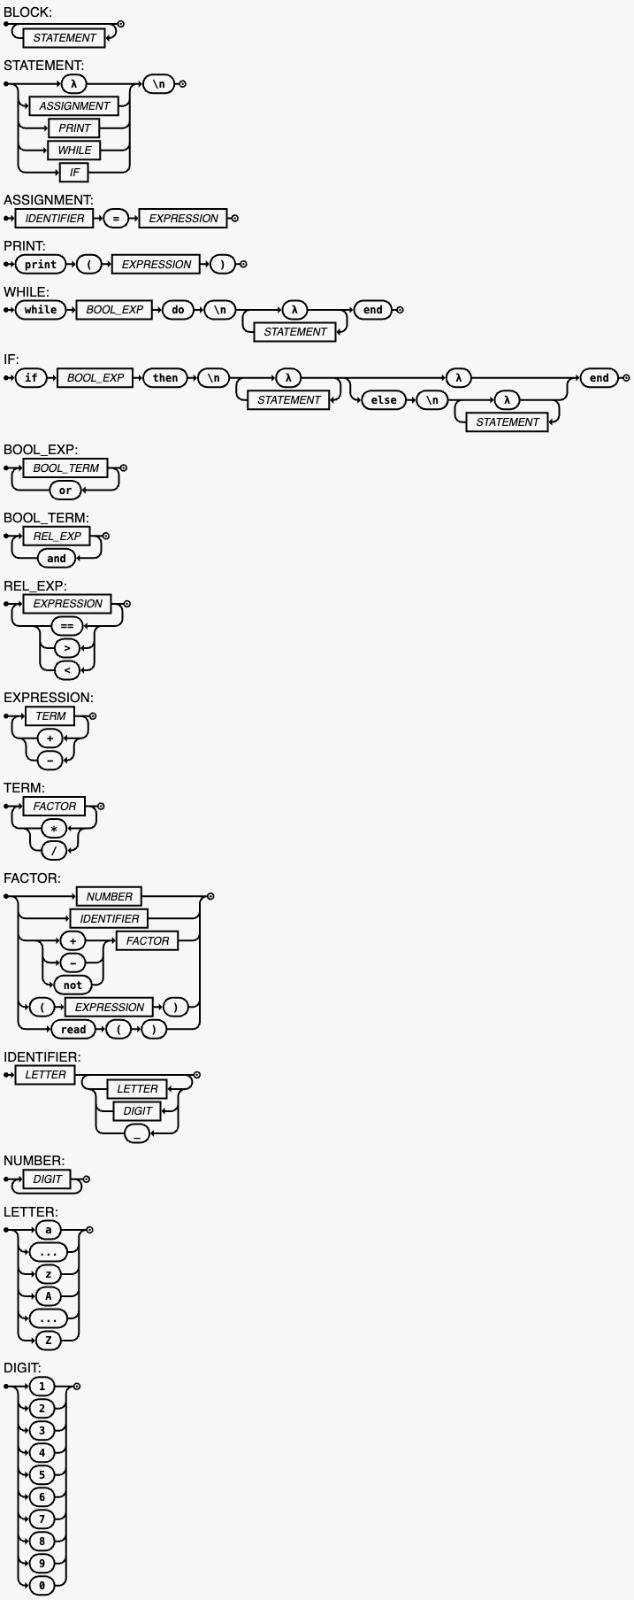
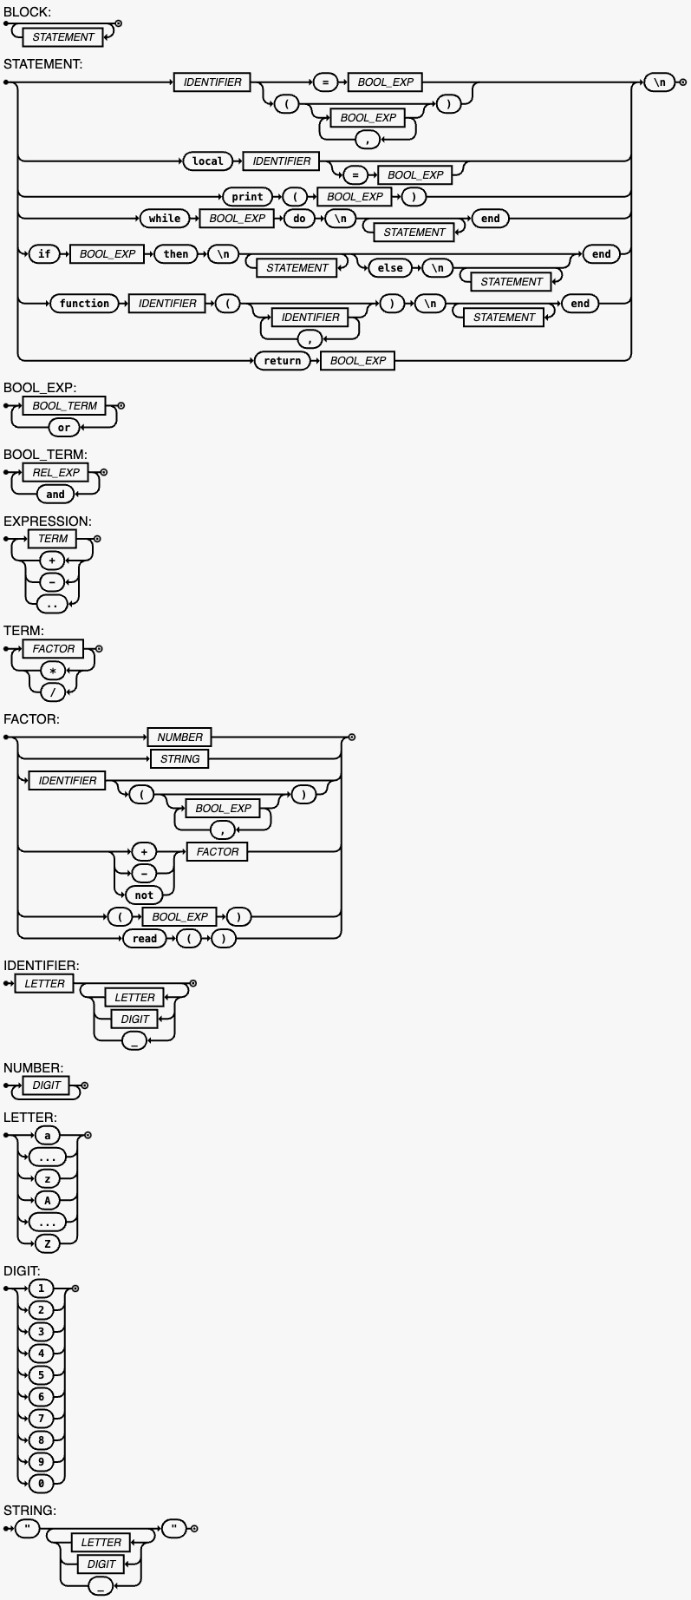
Update ds and ebnf

Changed region(s): [[0.0, 0.0, 0.989, 1.0]]

diff --git a/README.md b/README.md
@@ -6,21 +6,30 @@
 ## Extended Backus-Naur Form (EBNF)
 
 <li>BLOCK = { STATEMENT };
-<li>STATEMENT = ( "λ" | ASSIGNMENT | PRINT | WHILE | IF ), "\n" ;
-<li>ASSIGNMENT = IDENTIFIER, "=", EXPRESSION ;
-<li>PRINT = "print", "(", EXPRESSION, ")" ;
-<li>WHILE = "while", BOOL_EXP, "do", "\n", "λ", { ( STATEMENT ), "λ" }, "end";
-<li>IF = "if", BOOL_EXP, "then", "\n", "λ", { ( STATEMENT ), "λ" }, ( "λ" | ( "else", "\n", "λ", { ( STATEMENT ), "λ" })), "end" ;
+<li>STATEMENT = ( 
+    IDENTIFIER, ( "=", BOOL_EXP | "(" , ( | BOOL_EXP, { ( "," ) , BOOL_EXP } ), ")" )
+    | "local", IDENTIFIER, ["=", BOOL_EXP] 
+    | "print", "(", BOOL_EXP, ")" 
+    | "while", BOOL_EXP, "do", "\n", { ( STATEMENT )}, "end" 
+    | "if", BOOL_EXP, "then", "\n", { ( STATEMENT ) }, [ "else", "\n", { ( STATEMENT )}], "end"
+    | "function", IDENTIFIER, "(", ( | IDENTIFIER, { ( "," ), IDENTIFIER } ), ")", "\n", { ( STATEMENT ) }, "end"
+    | "return", BOOL_EXP
+    ), "\n" ;
 <li>BOOL_EXP = BOOL_TERM, { ("or"), BOOL_TERM } ;
 <li>BOOL_TERM = REL_EXP, { ("and"), REL_EXP } ;
-<li>REL_EXP = EXPRESSION, { ("==" | ">" | "<"), EXPRESSION } ;
-<li>EXPRESSION = TERM, { ("+" | "-"), TERM } ;
-<li>TERM = FACTOR, { ("*" | "/" | "%"), FACTOR } ;
-<li>FACTOR = NUMBER | IDENTIFIER | (("+" | "-" | "not"), FACTOR ) | "(", EXPRESSION, ")" | "read", "(", ")" ;
+<li>EXPRESSION = TERM, { ("+" | "-" |".."), TERM } ;
+<li>TERM = FACTOR, { ("*" | "/"), FACTOR } ;
+<li>FACTOR = NUMBER 
+    | STRING 
+    | IDENTIFIER, ( | "(" , ( | BOOL_EXP, { ( "," ) , BOOL_EXP } ), ")" ) 
+    | ("+" | "-" | "not"), FACTOR 
+    | "(", BOOL_EXP, ")" 
+    | "read", "(", ")" ;
 <li>IDENTIFIER = LETTER, { LETTER | DIGIT | "_" } ;
 <li>NUMBER = DIGIT, { DIGIT } ;
 <li>LETTER = ( "a" | "..." | "z" | "A" | "..." | "Z" ) ;
 <li>DIGIT = ( "1" | "2" | "3" | "4" | "5" | "6" | "7" | "8" | "9" | "0" ) ;
+<li>STRING = '"', ({LETTER | DIGIT | "_"}), '"';
 
 ## Test status
 ![git status](http://3.129.230.99/svg/MekhyW/LogiComp-Compiler/)
